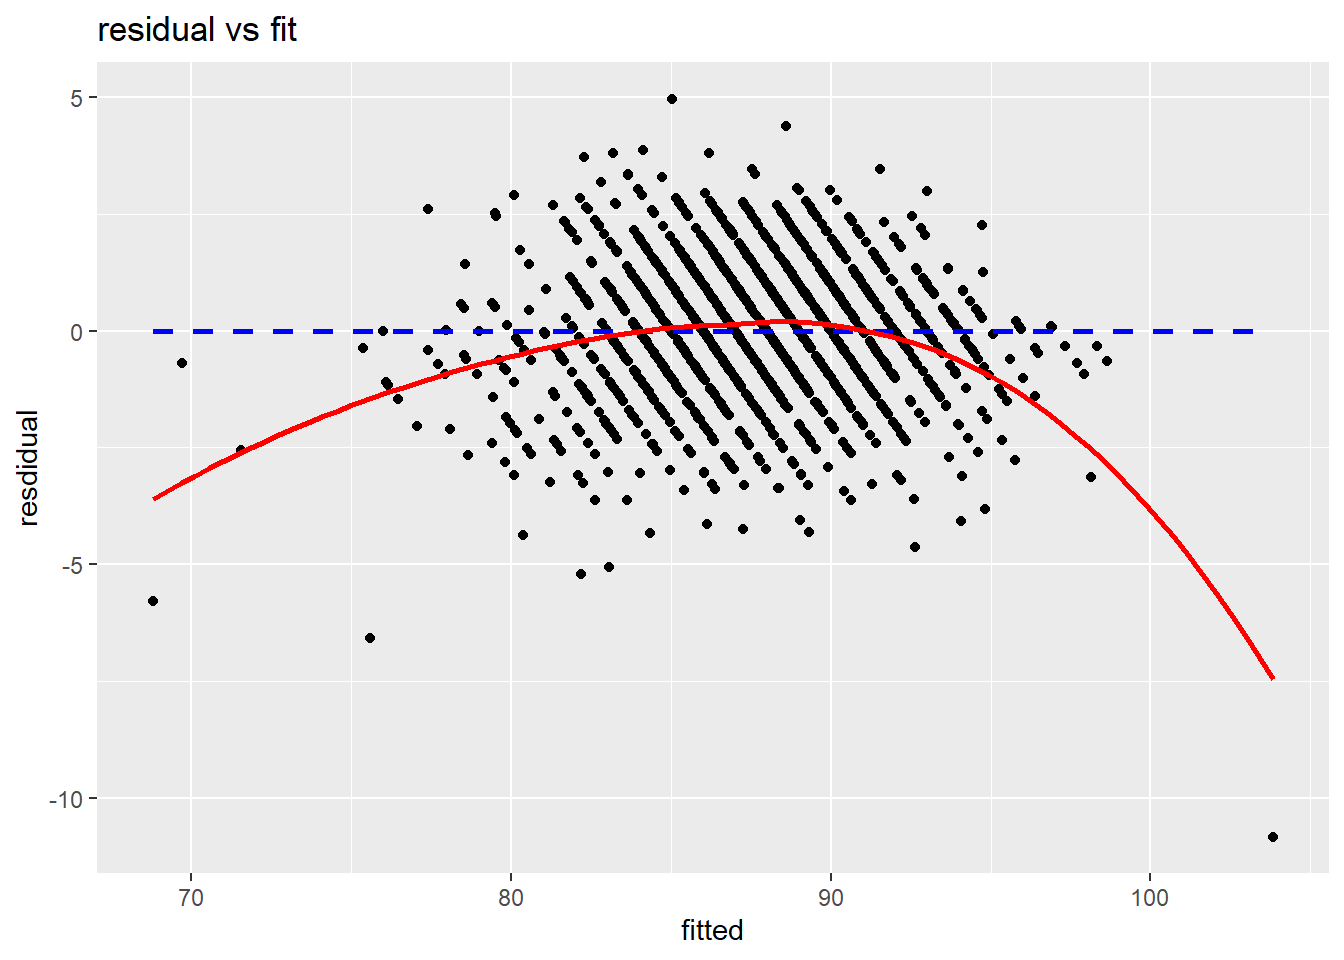
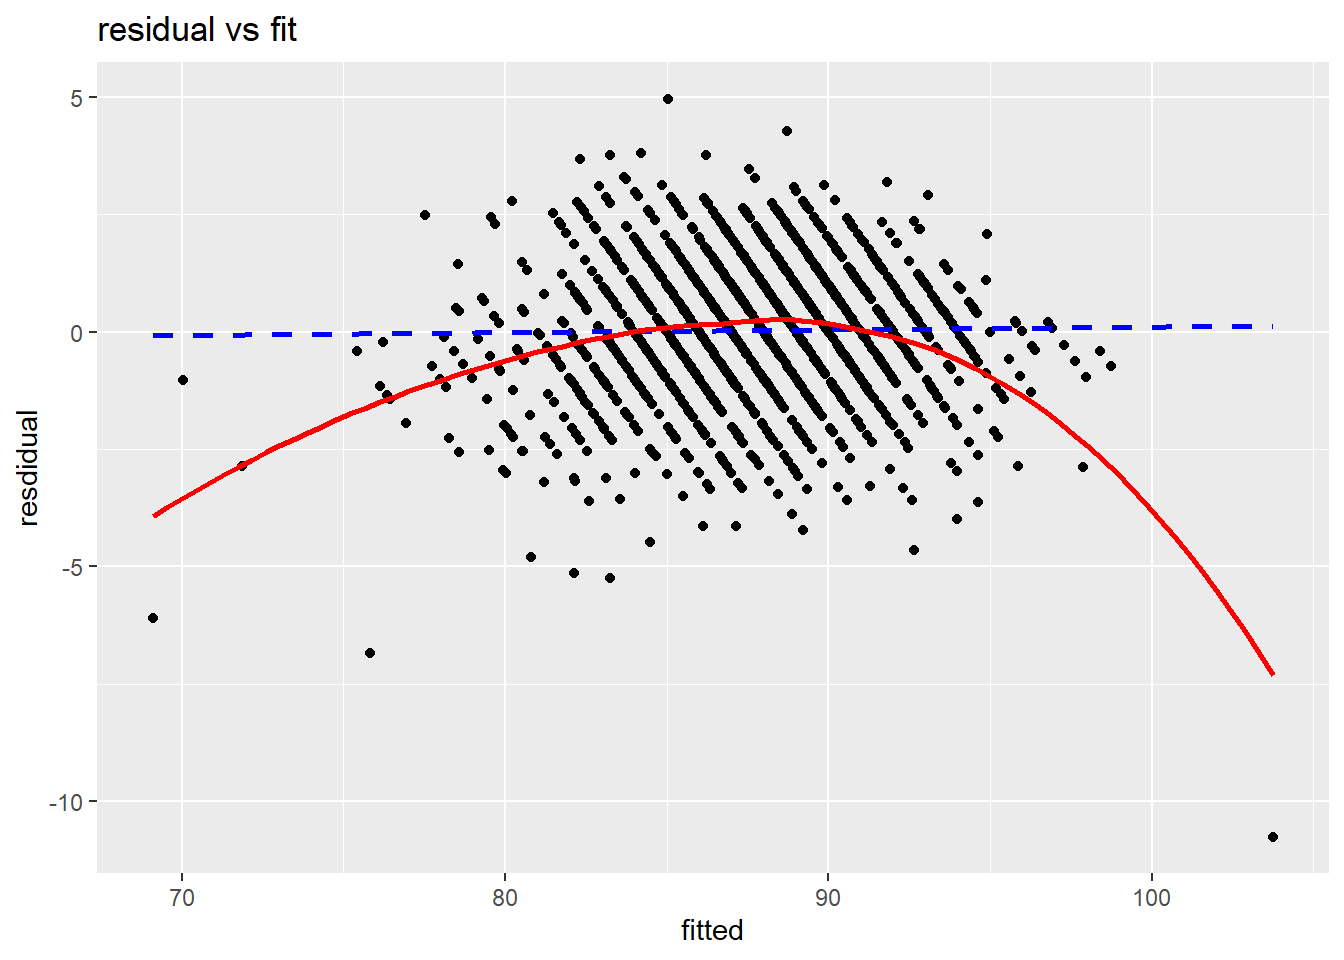
Lots of changes

diff --git a/docs/Project1.html b/docs/Project1.html
@@ -7,7 +7,7 @@
 <meta name="viewport" content="width=device-width, initial-scale=1.0, user-scalable=yes">
 
 
-<title>portfoliowebsite</title>
+<title>Hospital Project – portfoliowebsite</title>
 <style>
 code{white-space: pre-wrap;}
 span.smallcaps{font-variant: small-caps;}
@@ -153,7 +153,8 @@ pre > code.sourceCode > span > a:first-child::before { text-decoration: underlin
     <h2 id="toc-title">On this page</h2>
    
   <ul>
-  <li><a href="#data-wrangling" id="toc-data-wrangling" class="nav-link active" data-scroll-target="#data-wrangling">Data Wrangling</a></li>
+  <li><a href="#context-and-question" id="toc-context-and-question" class="nav-link active" data-scroll-target="#context-and-question">Context and Question</a></li>
+  <li><a href="#data-wrangling" id="toc-data-wrangling" class="nav-link" data-scroll-target="#data-wrangling">Data Wrangling</a></li>
   <li><a href="#eda" id="toc-eda" class="nav-link" data-scroll-target="#eda">Eda</a></li>
   <li><a href="#model-selection" id="toc-model-selection" class="nav-link" data-scroll-target="#model-selection">Model Selection</a></li>
   <li><a href="#project-limitations-constraints" id="toc-project-limitations-constraints" class="nav-link" data-scroll-target="#project-limitations-constraints">Project Limitations &amp; Constraints</a></li>
@@ -165,7 +166,7 @@ pre > code.sourceCode > span > a:first-child::before { text-decoration: underlin
 
 <header id="title-block-header" class="quarto-title-block default">
 <div class="quarto-title">
-<h1 class="title">portfoliowebsite</h1>
+<h1 class="title">Hospital Project</h1>
 </div>
 
 
@@ -182,7 +183,6 @@ pre > code.sourceCode > span > a:first-child::before { text-decoration: underlin
 </header>
 
 
-<p>I think this works</p>
 <div class="cell">
 <div class="sourceCode cell-code" id="cb1"><pre class="sourceCode r code-with-copy"><code class="sourceCode r"><span id="cb1-1"><a href="#cb1-1" aria-hidden="true" tabindex="-1"></a><span class="co">#remove zip code?, parish, telephone number, number of completed surverys footnote,number of completed surverys footnote, additional footnote, state, end date </span></span>
 <span id="cb1-2"><a href="#cb1-2" aria-hidden="true" tabindex="-1"></a></span>
@@ -193,9 +193,13 @@ pre > code.sourceCode > span > a:first-child::before { text-decoration: underlin
 <span id="cb1-7"><a href="#cb1-7" aria-hidden="true" tabindex="-1"></a>here<span class="sc">::</span><span class="fu">i_am</span>(<span class="st">"Project1.qmd"</span>)</span>
 <span id="cb1-8"><a href="#cb1-8" aria-hidden="true" tabindex="-1"></a>hosp <span class="ot">&lt;-</span> <span class="fu">read_csv</span>(here<span class="sc">::</span><span class="fu">here</span>(<span class="st">"HCAHPS-Hospital.csv"</span>),<span class="at">na=</span><span class="fu">c</span>(<span class="st">"Not Available"</span>,<span class="st">"Not Applicable"</span>))</span></code><button title="Copy to Clipboard" class="code-copy-button"><i class="bi"></i></button></pre></div>
 </div>
+<section id="context-and-question" class="level1">
+<h1>Context and Question</h1>
+<p>The data I looked into in this project is from the Centers for Medicare and Medicaid <a href="https://data.cms.gov/provider-data/dataset/dgck-syfz#data-dictionary">Website</a>. The data set is a listing of various questions and ways of rating hospitals. This inludes star ratings, answers percentages, and mean score which contribute to how well rated patients rate a hospital.</p>
+</section>
 <section id="data-wrangling" class="level1">
 <h1>Data Wrangling</h1>
-<p>section explanation</p>
+<p>The data set starting off was very messy and hard to work with. To start off looking into this Hospital data set, I took out the unnecessary data for what I was looking into. I used the select function for this taking out columns in my data set such as State, Address and completion Dates. I then separated out the ways of rating the hospitals into their 3 categories/data sets. With the 3 data sets being linear mean scores out of 100 for specific attributes of the hospital, star ratings out of 5 which are rates similarly to linear mean score and answer percent which tracks what percentages of responses tracked to which specific answers.</p>
 <div class="cell">
 <div class="sourceCode cell-code" id="cb2"><pre class="sourceCode r code-with-copy"><code class="sourceCode r"><span id="cb2-1"><a href="#cb2-1" aria-hidden="true" tabindex="-1"></a><span class="co">#Taking out stuff we don't want</span></span>
 <span id="cb2-2"><a href="#cb2-2" aria-hidden="true" tabindex="-1"></a>hosp2<span class="ot">&lt;-</span>hosp<span class="sc">|&gt;</span></span>
@@ -353,17 +357,17 @@ pre > code.sourceCode > span > a:first-child::before { text-decoration: underlin
 <div class="cell">
 <div class="sourceCode cell-code" id="cb12"><pre class="sourceCode r code-with-copy"><code class="sourceCode r"><span id="cb12-1"><a href="#cb12-1" aria-hidden="true" tabindex="-1"></a>lmcomm <span class="ot">&lt;-</span><span class="fu">glm</span>(</span>
 <span id="cb12-2"><a href="#cb12-2" aria-hidden="true" tabindex="-1"></a>    overall_rating<span class="sc">~</span>Nurse_comm <span class="sc">+</span> Doctor_comm ,</span>
-<span id="cb12-3"><a href="#cb12-3" aria-hidden="true" tabindex="-1"></a>    <span class="at">data =</span> hmeanc_test</span>
+<span id="cb12-3"><a href="#cb12-3" aria-hidden="true" tabindex="-1"></a>    <span class="at">data =</span> hmeanc_training</span>
 <span id="cb12-4"><a href="#cb12-4" aria-hidden="true" tabindex="-1"></a>  )</span>
 <span id="cb12-5"><a href="#cb12-5" aria-hidden="true" tabindex="-1"></a></span>
 <span id="cb12-6"><a href="#cb12-6" aria-hidden="true" tabindex="-1"></a>lmall <span class="ot">&lt;-</span><span class="fu">glm</span>(</span>
 <span id="cb12-7"><a href="#cb12-7" aria-hidden="true" tabindex="-1"></a>    overall_rating<span class="sc">~</span>Nurse_comm <span class="sc">+</span> Doctor_comm <span class="sc">+</span> Staff_resp <span class="sc">+</span> Med_comm <span class="sc">+</span> disc_info <span class="sc">+</span> care_trans <span class="sc">+</span> cleanliness <span class="sc">+</span> quietness  ,</span>
-<span id="cb12-8"><a href="#cb12-8" aria-hidden="true" tabindex="-1"></a>    <span class="at">data =</span> hmeanc_test</span>
+<span id="cb12-8"><a href="#cb12-8" aria-hidden="true" tabindex="-1"></a>    <span class="at">data =</span> hmeanc_training</span>
 <span id="cb12-9"><a href="#cb12-9" aria-hidden="true" tabindex="-1"></a>  )</span>
 <span id="cb12-10"><a href="#cb12-10" aria-hidden="true" tabindex="-1"></a></span>
 <span id="cb12-11"><a href="#cb12-11" aria-hidden="true" tabindex="-1"></a>lmnull <span class="ot">&lt;-</span><span class="fu">glm</span>(</span>
 <span id="cb12-12"><a href="#cb12-12" aria-hidden="true" tabindex="-1"></a>    overall_rating<span class="sc">~</span><span class="dv">1</span> ,</span>
-<span id="cb12-13"><a href="#cb12-13" aria-hidden="true" tabindex="-1"></a>    <span class="at">data =</span> hmeanc_test</span>
+<span id="cb12-13"><a href="#cb12-13" aria-hidden="true" tabindex="-1"></a>    <span class="at">data =</span> hmeanc_training</span>
 <span id="cb12-14"><a href="#cb12-14" aria-hidden="true" tabindex="-1"></a>  )</span>
 <span id="cb12-15"><a href="#cb12-15" aria-hidden="true" tabindex="-1"></a></span>
 <span id="cb12-16"><a href="#cb12-16" aria-hidden="true" tabindex="-1"></a><span class="fu">tidy</span>(lmcomm)</span></code><button title="Copy to Clipboard" class="code-copy-button"><i class="bi"></i></button></pre></div>
@@ -371,31 +375,31 @@ pre > code.sourceCode > span > a:first-child::before { text-decoration: underlin
 <pre><code># A tibble: 3 × 5
   term        estimate std.error statistic   p.value
   &lt;chr&gt;          &lt;dbl&gt;     &lt;dbl&gt;     &lt;dbl&gt;     &lt;dbl&gt;
-1 (Intercept)  -29.4      1.51       -19.4 2.10e- 75
-2 Nurse_comm     0.907    0.0278      32.7 7.05e-180
-3 Doctor_comm    0.381    0.0281      13.5 1.33e- 39</code></pre>
+1 (Intercept)  -29.1      1.50       -19.4 3.31e- 75
+2 Nurse_comm     0.891    0.0279      31.9 1.54e-173
+3 Doctor_comm    0.394    0.0285      13.8 4.30e- 41</code></pre>
 </div>
 <div class="sourceCode cell-code" id="cb14"><pre class="sourceCode r code-with-copy"><code class="sourceCode r"><span id="cb14-1"><a href="#cb14-1" aria-hidden="true" tabindex="-1"></a><span class="fu">tidy</span> (lmall)</span></code><button title="Copy to Clipboard" class="code-copy-button"><i class="bi"></i></button></pre></div>
 <div class="cell-output cell-output-stdout">
 <pre><code># A tibble: 9 × 5
   term        estimate std.error statistic  p.value
   &lt;chr&gt;          &lt;dbl&gt;     &lt;dbl&gt;     &lt;dbl&gt;    &lt;dbl&gt;
-1 (Intercept) -18.1      1.86        -9.76 6.83e-22
-2 Nurse_comm    0.375    0.0374      10.0  6.31e-23
-3 Doctor_comm   0.132    0.0262       5.03 5.60e- 7
-4 Staff_resp    0.0350   0.0162       2.15 3.16e- 2
-5 Med_comm     -0.0556   0.0166      -3.35 8.34e- 4
-6 disc_info     0.0525   0.0159       3.30 1.00e- 3
-7 care_trans    0.523    0.0268      19.5  7.00e-76
-8 cleanliness   0.0952   0.0103       9.26 6.25e-20
-9 quietness     0.0756   0.00908      8.32 1.83e-16</code></pre>
+1 (Intercept) -16.9      1.79        -9.44 1.25e-20
+2 Nurse_comm    0.376    0.0373      10.1  2.67e-23
+3 Doctor_comm   0.132    0.0269       4.90 1.06e- 6
+4 Staff_resp    0.0268   0.0165       1.63 1.04e- 1
+5 Med_comm     -0.0288   0.0159      -1.81 7.01e- 2
+6 disc_info     0.0260   0.0158       1.65 9.93e- 2
+7 care_trans    0.507    0.0284      17.8  4.54e-65
+8 cleanliness   0.107    0.0107       9.92 1.51e-22
+9 quietness     0.0727   0.00960      7.58 5.82e-14</code></pre>
 </div>
 <div class="sourceCode cell-code" id="cb16"><pre class="sourceCode r code-with-copy"><code class="sourceCode r"><span id="cb16-1"><a href="#cb16-1" aria-hidden="true" tabindex="-1"></a><span class="fu">tidy</span>(lmnull)</span></code><button title="Copy to Clipboard" class="code-copy-button"><i class="bi"></i></button></pre></div>
 <div class="cell-output cell-output-stdout">
 <pre><code># A tibble: 1 × 5
   term        estimate std.error statistic p.value
   &lt;chr&gt;          &lt;dbl&gt;     &lt;dbl&gt;     &lt;dbl&gt;   &lt;dbl&gt;
-1 (Intercept)     87.5    0.0961      911.       0</code></pre>
+1 (Intercept)     87.7    0.0979      896.       0</code></pre>
 </div>
 <div class="sourceCode cell-code" id="cb18"><pre class="sourceCode r code-with-copy"><code class="sourceCode r"><span id="cb18-1"><a href="#cb18-1" aria-hidden="true" tabindex="-1"></a>hmeanc_pred1<span class="ot">&lt;-</span> lmall <span class="sc">|&gt;</span></span>
 <span id="cb18-2"><a href="#cb18-2" aria-hidden="true" tabindex="-1"></a>  <span class="fu">augment</span>( <span class="at">newdata =</span> hmeanc_test</span>

diff --git a/docs/index.html b/docs/index.html
@@ -136,6 +136,10 @@ ul.task-list li input[type="checkbox"] {
 </header>
 
 
+<p>I’m Anthony Carter, a budding data scientist, this is my website where I host all data science/statistics projects I am working on.</p>
+<p>My Github Page: <a href="https://github.com/Ajcarter4/portfolio">Github</a></p>
+<p>My Hospital Data Project <a href="https://ajcarter4.github.io/portfolio/Project1.html">Hosp Project</a></p>
+<p>My Encelia Data Project <a href="https://ajcarter4.github.io/portfolio/Project2.html">Flower Project</a></p>
 
 
 

diff --git a/README.md b/README.md
@@ -1,1 +1,5 @@
-# portfolio.github.io
+# Here is my portfolio website: 
+
+<https://ajcarter4.github.io/portfolio/>
+
+I'm Anthony Carter, a budding data scientist, this is my website where I host all data science/statistics projects I am working on.
